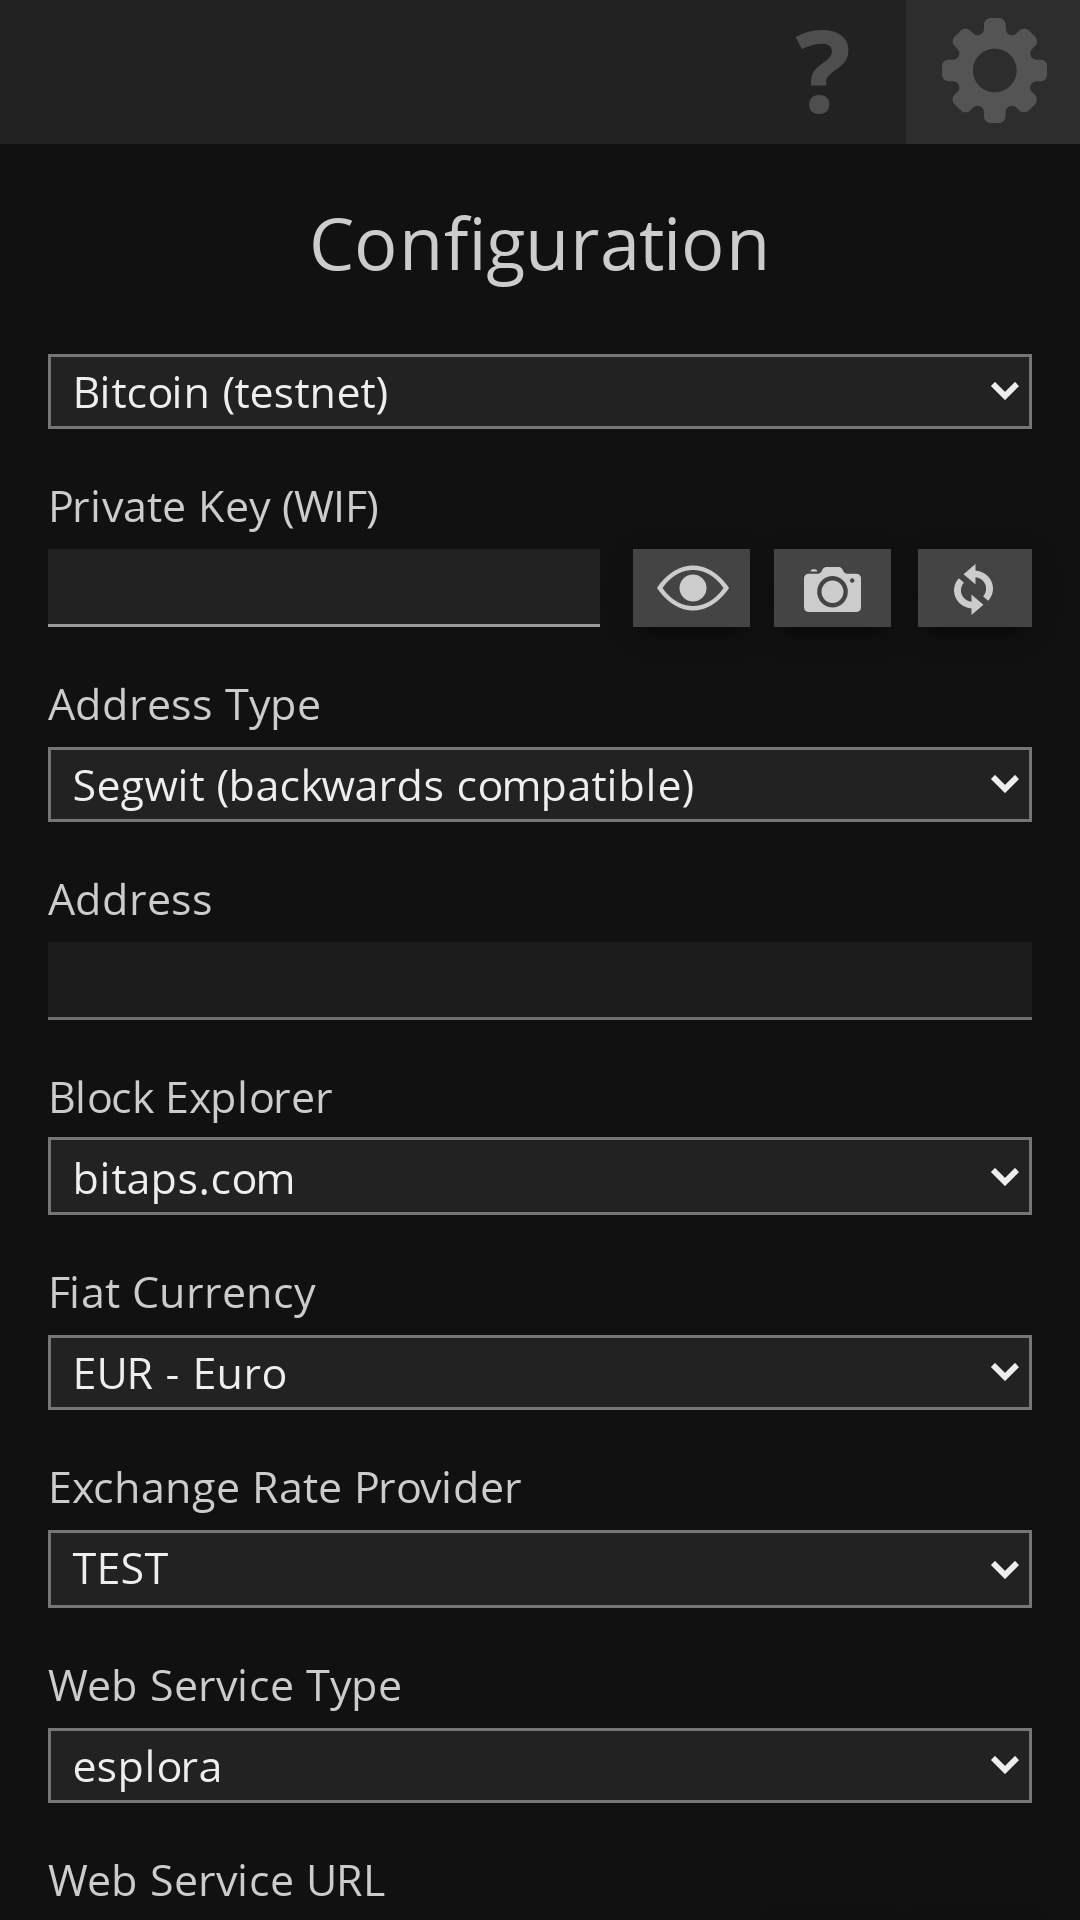
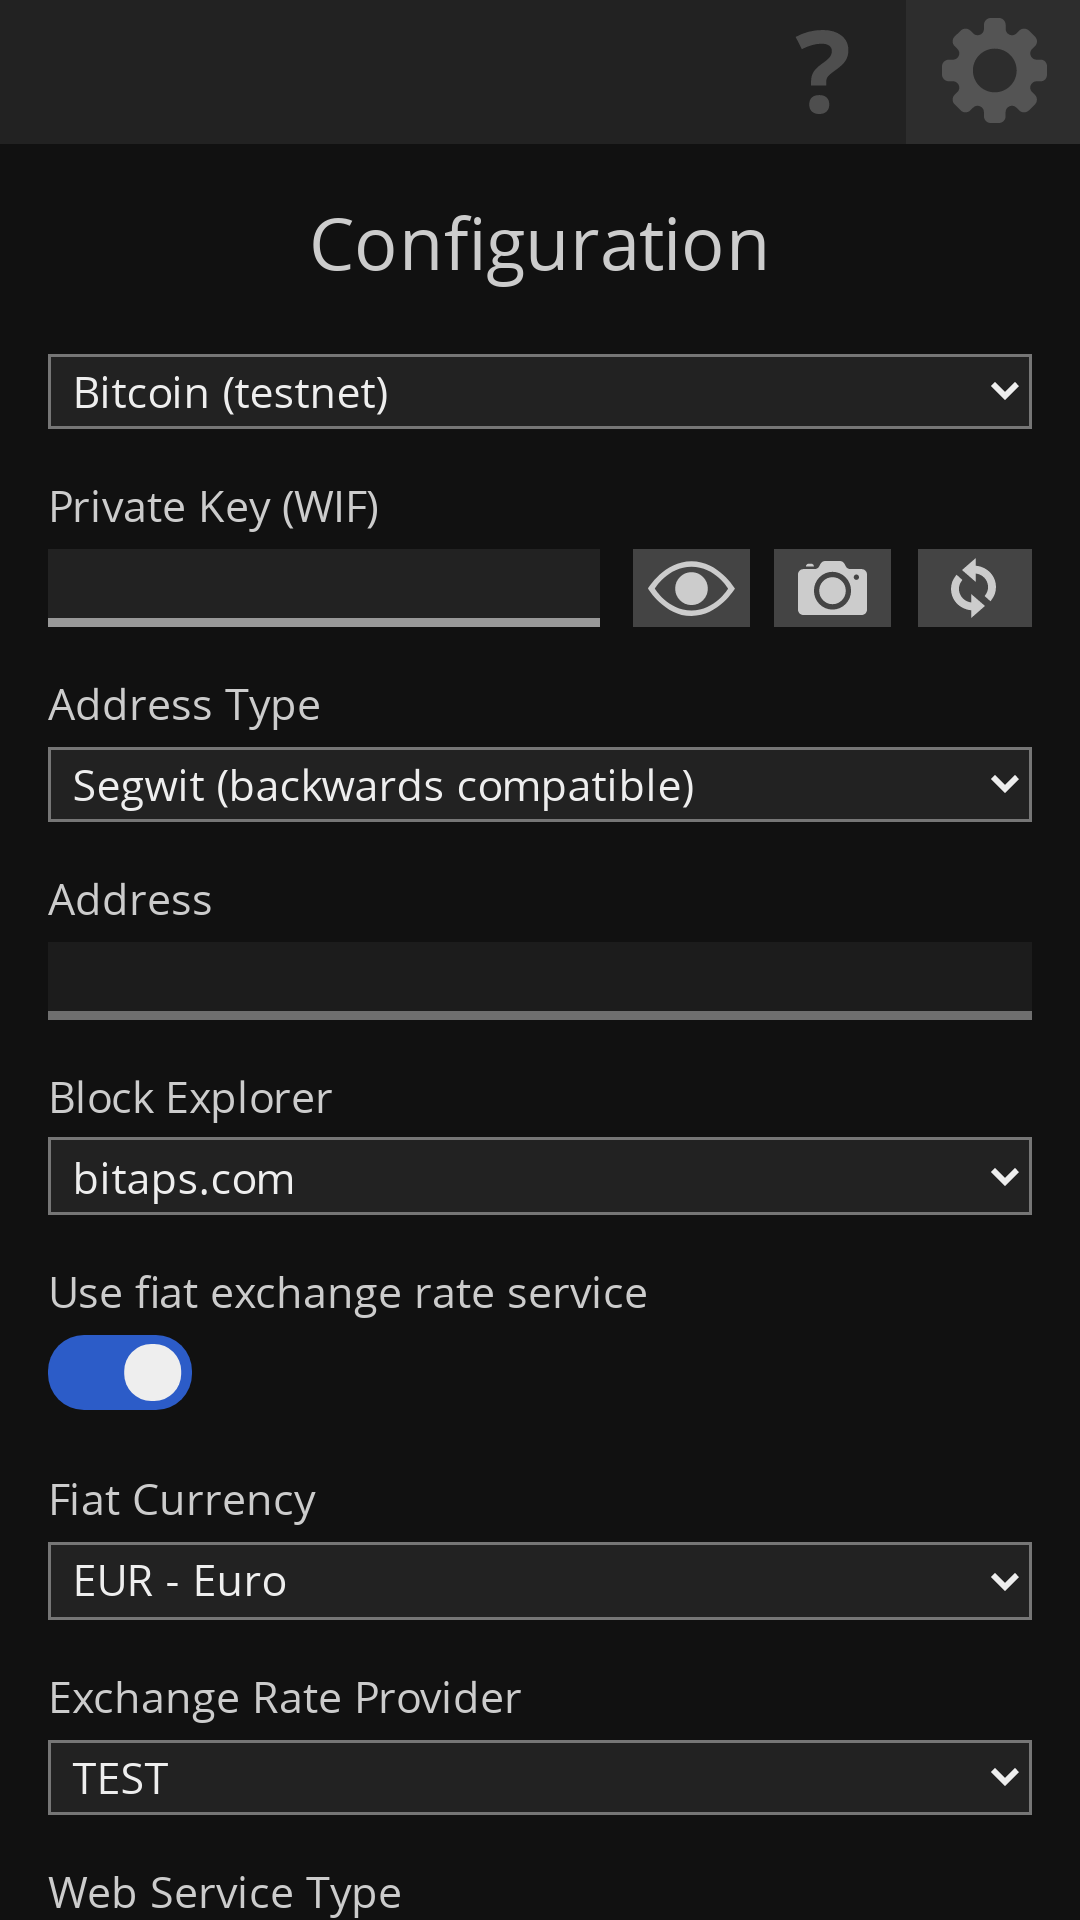
Version, changelog, screenshots

diff --git a/CHANGELOG.md b/CHANGELOG.md
@@ -1,5 +1,9 @@
 # Changelog
 
+* v2.1.0:
+  * New configuration to toggle use of fiat currency, default state disabled
+  * Changed default web service type to esplora
+  * New "Refresh History" button in history view
 * v2.0.0:
   * Easily toggle between fiat currency or coin amounts in send view by clicking any displayed amount
   * Added new config options for fiat currency and exchange rate provider
